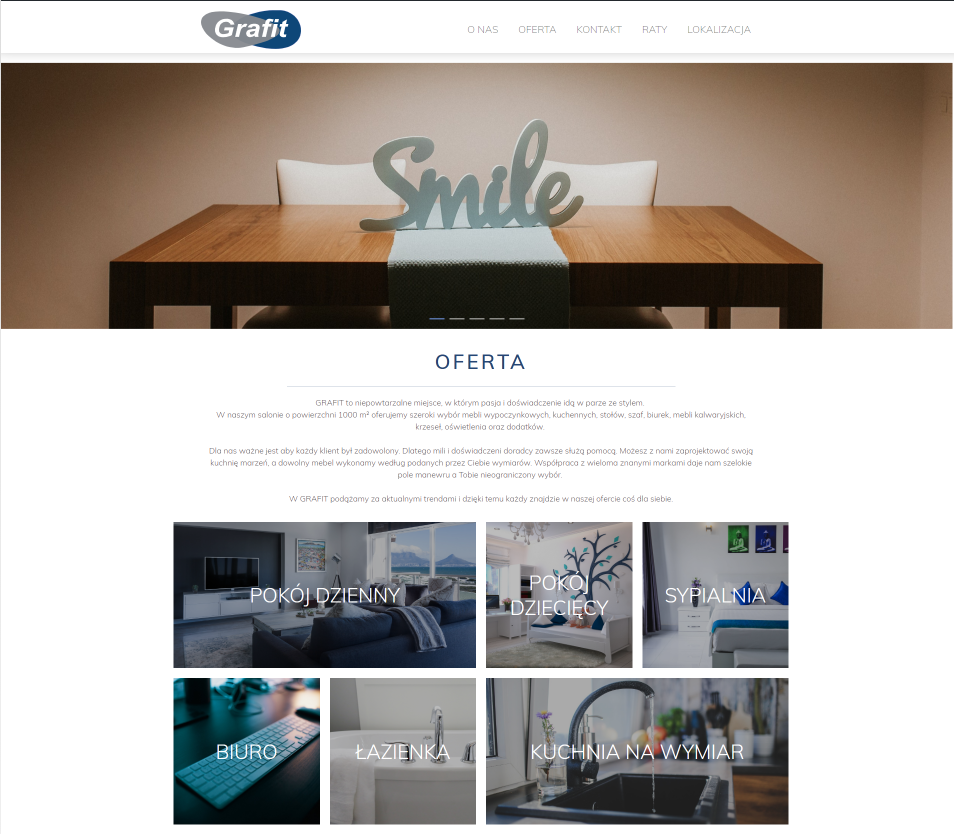
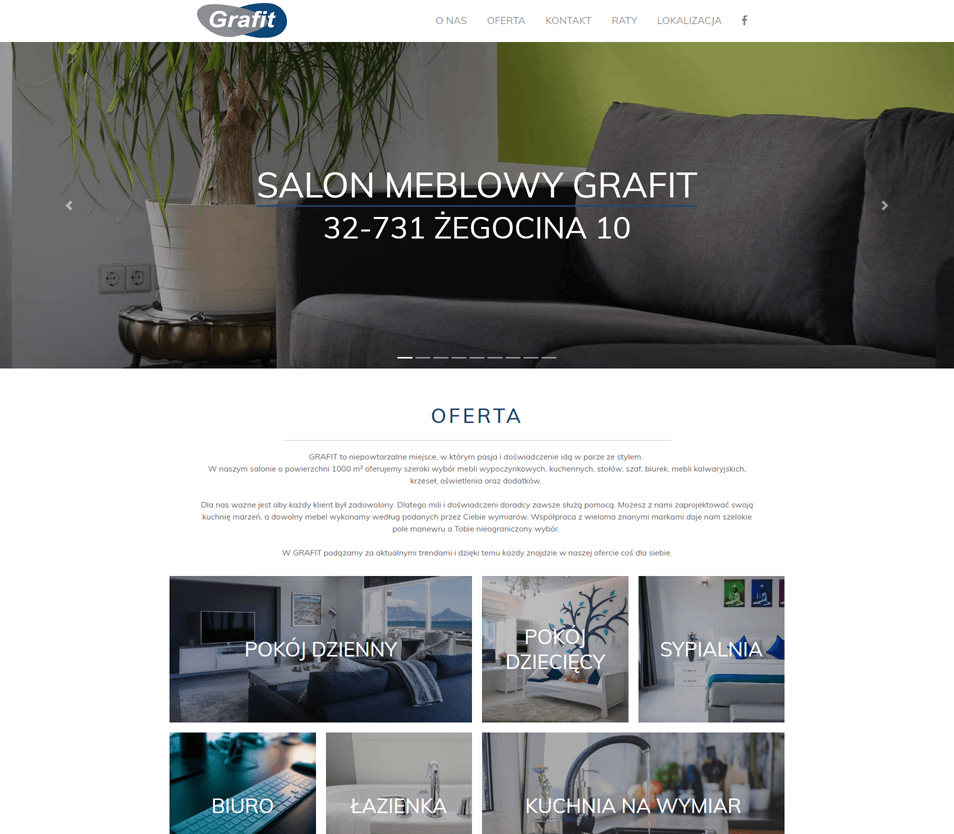
page standard

diff --git a/style.css b/style.css
@@ -58,6 +58,10 @@ nav{
     padding: 1.25rem 2.5rem;
 }
 
+.dropdown-item:active{
+    background-color: #8b8b8bc7;
+}
+
 .dropdown-divider{
     margin: 0 -1rem;
     border-top: 1px solid #2546750e;
@@ -116,7 +120,7 @@ nav{
 }
 
 .carousel-text h3{
-    font-size: 6rem;
+    font-size: 5rem;
 }
 
 .main-offer,
@@ -274,6 +278,7 @@ nav{
 
 .motto{
     background: url(img/bed-bedroom-clean-775219.jpg) no-repeat fixed center;
+    background-size: cover;
     min-height: 500px;
     position: relative;
     z-index: 0;
@@ -406,6 +411,7 @@ nav{
 
 .contact-form{
     background: url(img/grafit.jpg) no-repeat fixed center;
+    background-size: cover;
     position: relative;
     z-index: 0;
     min-height: 50rem;
@@ -716,6 +722,7 @@ nav{
     background-image: url(img/footer.jpg);
     background-repeat: no-repeat;
     background-position: center;
+    background-size: cover;
     position: relative;
     bottom: 0;
 }
@@ -747,7 +754,14 @@ nav{
 
 
 
-
+/* {
+    FAJNE STYLOWANIE OBRAZKA :)
+    border-radius: 0 0 25vw 25vw;
+    overflow: hidden;
+    border-color: #0ee1f4 #0ee1f4 #0ee1f4 #179894;
+    border-left-width: 2vw;
+    box-shadow: -30px 0px 0px 0px rgba(23,152,148,0.69);
+} */
 
 
 

diff --git a/footer.php b/footer.php
@@ -1,26 +1,24 @@
-	<footer id="colophon" class="wrap-main-footer" role="contentinfo">
-		<div class="main-footer">
-			<!-- pasek widgetow -->
-			<div class="footer-widgets">
-				<?php get_sidebar('footer'); ?>
-			</div>
+<footer id="colophon" class="wrap-main-footer" role="contentinfo">
+	<div class="main-footer">
 
-			<!-- prawa autorskie -->
-			<div class="copyrights">
-				<p class="site-info">meblegrafit.pl &copy;2019 | Realizacja: FreshLime</p><!-- .site-info -->
-
-			</div><!-- .container -->
+		<div class="footer-widgets">
+			<?php get_sidebar('footer'); ?>
 		</div>
-	</footer><!-- #colophon -->
+
+		<div class="copyrights">
+			<p class="site-info">meblegrafit.pl &copy;<?php echo date("Y"); ?> | Realizacja: FreshLime</p>
+
+		</div>
+	</div>
+</footer>
 
 
-	<script src="https://code.jquery.com/jquery-3.3.1.slim.min.js" crossorigin="anonymous"></script>
-	<script src="https://cdnjs.cloudflare.com/ajax/libs/popper.js/1.14.7/umd/popper.min.js" crossorigin="anonymous">
-	</script>
-	<script src="https://stackpath.bootstrapcdn.com/bootstrap/4.3.1/js/bootstrap.min.js" crossorigin="anonymous"></script>
-	<script src="https://ajax.googleapis.com/ajax/libs/jquery/3.3.1/jquery.min.js"></script>
+<script src="https://code.jquery.com/jquery-3.3.1.slim.min.js" crossorigin="anonymous"></script>
+<script src="https://cdnjs.cloudflare.com/ajax/libs/popper.js/1.14.7/umd/popper.min.js" crossorigin="anonymous"></script>
+<script src="https://stackpath.bootstrapcdn.com/bootstrap/4.3.1/js/bootstrap.min.js" crossorigin="anonymous"></script>
+<script src="https://ajax.googleapis.com/ajax/libs/jquery/3.3.1/jquery.min.js"></script>
 
-	<?php wp_footer(); ?>
-	</body>
+<?php wp_footer(); ?>
 
-	</html>
+</body>
+</html>

diff --git a/front-page.php b/front-page.php
@@ -14,7 +14,7 @@
 	</ol>
 	<div class="carousel-inner">
 		<div class="carousel-item active">
-			<img class="d-block w-100" src="<?php echo get_template_directory_uri(); ?>/img/slider9.jpg"
+			<img class="d-block w-100" src="<?php echo get_template_directory_uri(); ?>/img/slider5.jpg"
 				alt="First slide">
 			<div class="carousel-text">
 				<h2>Salon meblowy Grafit</h2>
@@ -22,7 +22,7 @@
 			</div>
 		</div>
 		<div class="carousel-item">
-			<img class="d-block w-100" src="<?php echo get_template_directory_uri(); ?>/img/slider3.jpg"
+			<img class="d-block w-100" src="<?php echo get_template_directory_uri(); ?>/img/slider6.jpg"
 				alt="First slide">
 			<div class="carousel-text d-md-block">
 				<h2>Salon meblowy Grafit</h2>
@@ -30,7 +30,7 @@
 		</div>
 
 		<div class="carousel-item">
-			<img class="d-block w-100" src="<?php echo get_template_directory_uri(); ?>/img/slider5.jpg"
+			<img class="d-block w-100" src="<?php echo get_template_directory_uri(); ?>/img/slider9.jpg"
 				alt="First slide">
 			<div class="carousel-text d-md-block">
 				<h2>Salon meblowy Grafit</h2>
@@ -39,7 +39,7 @@
 			</div>
 		</div>
 		<div class="carousel-item">
-			<img class="d-block w-100" src="<?php echo get_template_directory_uri(); ?>/img/slider6.jpg"
+			<img class="d-block w-100" src="<?php echo get_template_directory_uri(); ?>/img/slider3.jpg"
 				alt="First slide">
 			<div class="carousel-text d-md-block">
 				<h2>Salon meblowy Grafit</h2>

diff --git a/content-standard.php b/content-standard.php
@@ -8,6 +8,13 @@
     <div class="space"></div>
 
     <?php the_title('<h2 class="main-offer">', '</h2>'); ?>
+
+    <?php if ( has_post_thumbnail() ) : ?>
+        <div class="page-standard-img">
+            <?php the_post_thumbnail(); ?>
+        </div>
+    <?php endif; ?>
+
     <?php the_content(); ?>
 
     <footer class="edit-footer container">
